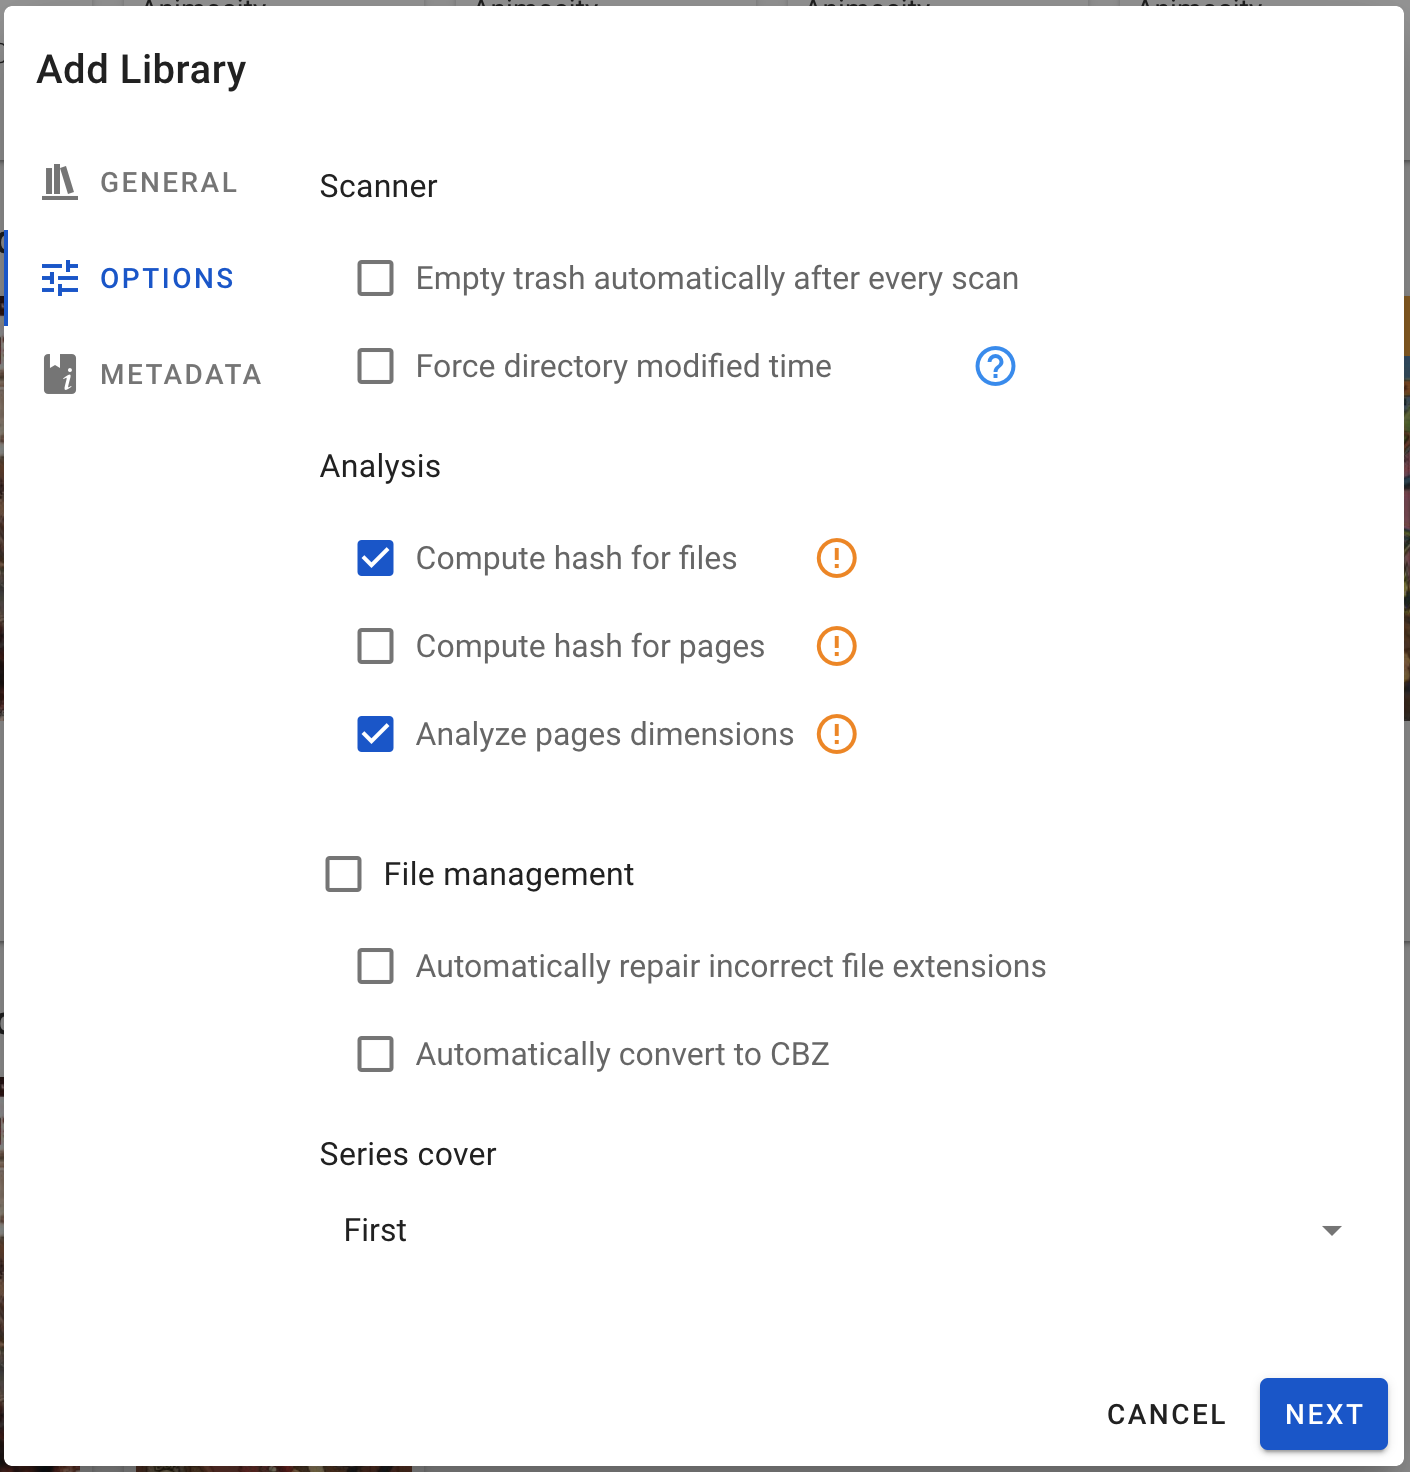
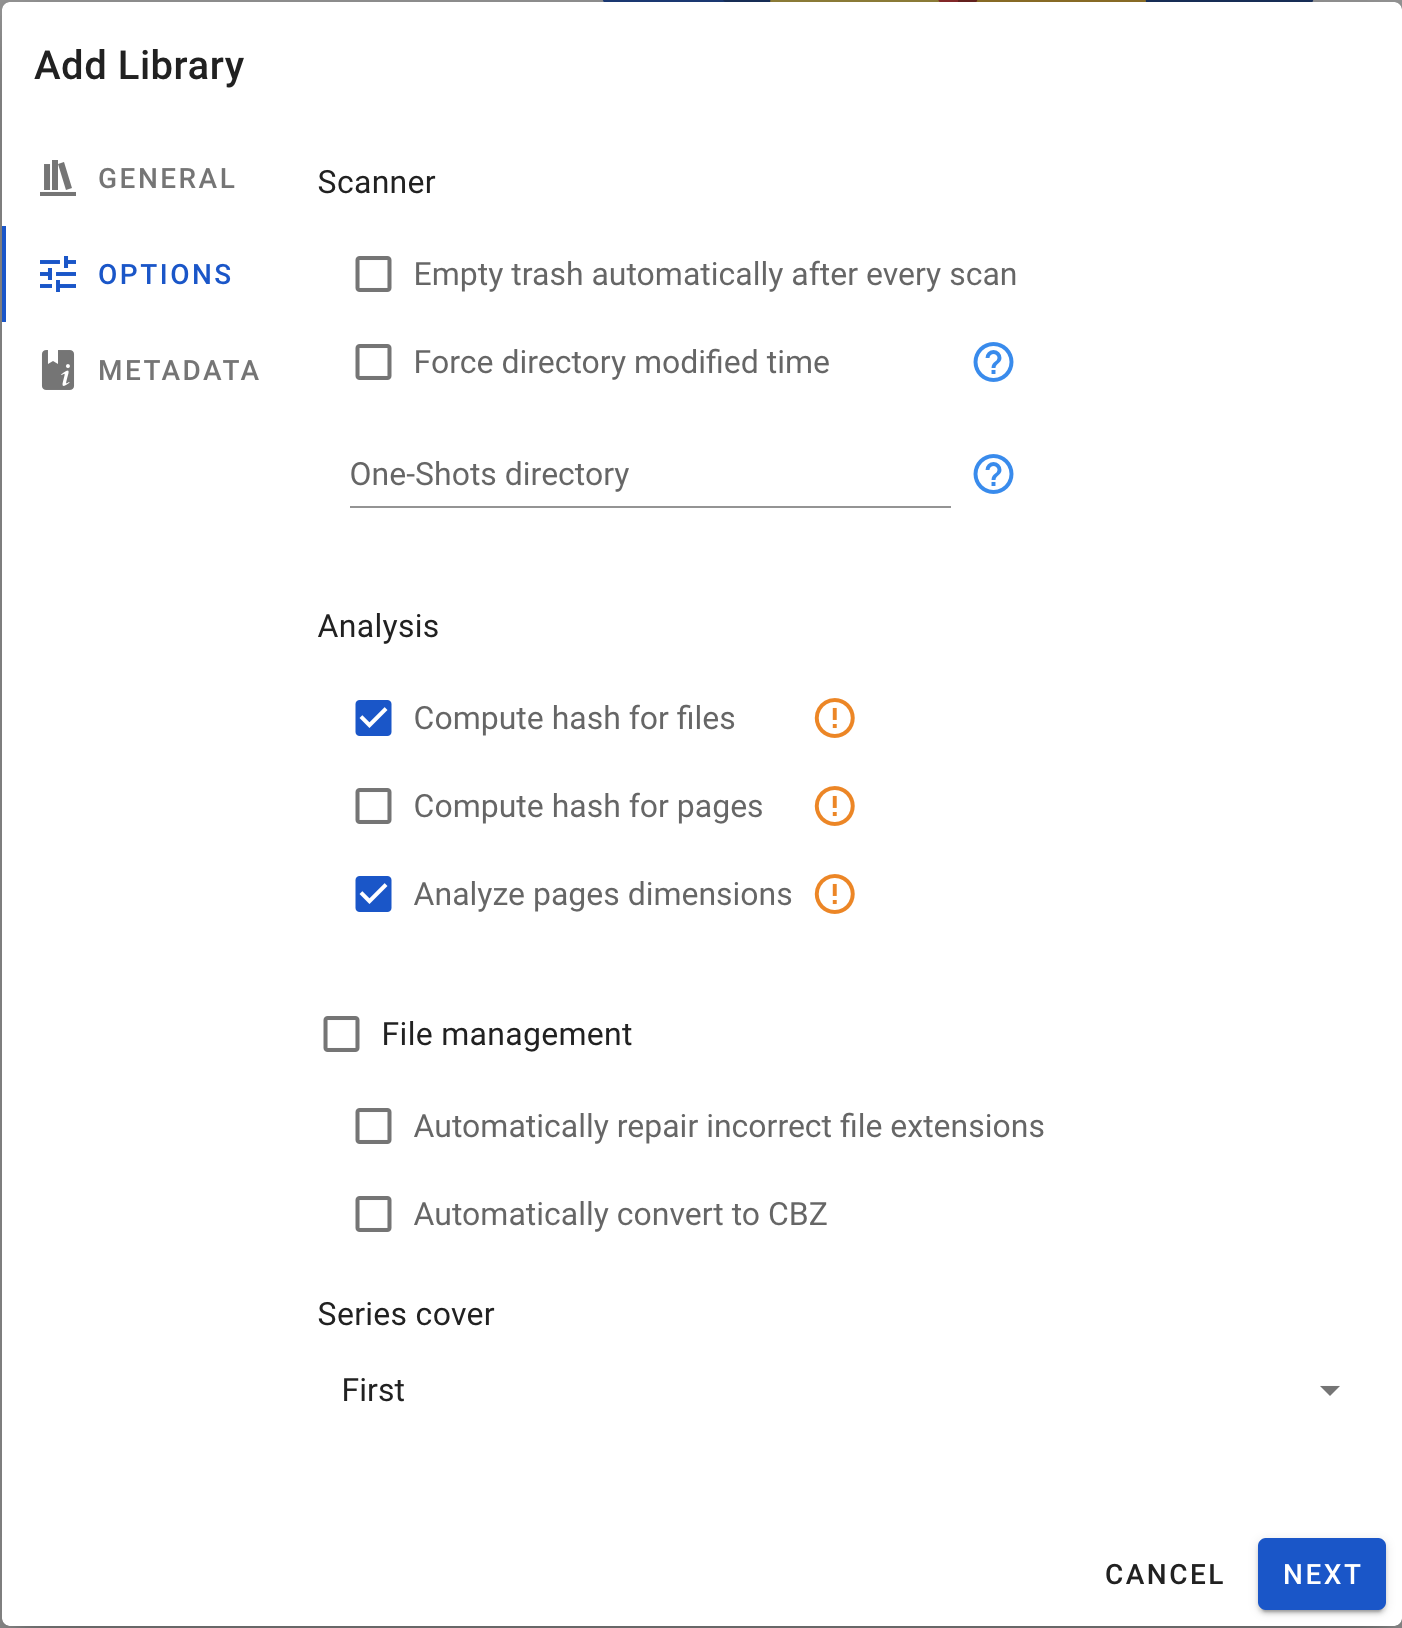
docs: oneshots documentation

diff --git a/sidebars.js b/sidebars.js
@@ -63,6 +63,7 @@ const sidebars = {
                 'guides/libraries',
                 'guides/trash',
                 'guides/scan-analysis-refresh',
+                'guides/oneshots',
                 'guides/edit-metadata',
                 'guides/local-artwork-assets',
                 'guides/user-accounts',

diff --git a/docs/guides/oneshots.md b/docs/guides/oneshots.md
@@ -1,0 +1,98 @@
+# One-Shots
+
+## What are One-Shots?
+
+One-Shots are series containing a single book. 
+
+However not all series containing a single book are One-Shots. Here are some example of single book series that are not One-Shots:
+- a series that has multiple books published, but only a single book is collected in Komga
+- a series that currently has only 1 book published, but will have more in the future
+
+Historically Komga required each series to be in its own directory on disk. This was cumbersome for One-Shots, as each book needed to be placed in a dedicated directory.
+
+With One-Shots handling, this is not necessary anymore.
+
+One-Shots are still composed of a series with a single book, but are handled slightly differently.
+
+## One-Shots handling
+
+### Configuration
+
+You can enable One-Shots handling through [Library options](/guides/libraries.md#one-shots-directory).
+
+### Processing
+
+One-Shots are detected during the scan. Any directory for which the full path contains the configured _One-Shots directory_ will generate One-Shot series instead of standard Series.
+
+Given the following directory structure, with _One-Shots directory_ configured to `_oneshots`:
+
+```
+/data/books/Comics
+├── Space Adventures
+│   ├── Space_Adventures_001.cbz
+│   ├── Space_Adventures_002.cbz
+│   ├── Space_Adventures_003.cbz
+│   └── _oneshots
+│       └── Pluto Adventures.cbz
+├── Super Duck
+│   ├── Super_Duck_001.cbz
+│   ├── Super_Duck_002.cbz
+│   └── Super_Duck_003.cbz
+└── _oneshots
+    ├── A oneshot.cbz
+    ├── Another oneshot.cbz
+    └── Yet another oneshot.cbz
+```
+
+This will result in:
+- 2 regular series:
+  - _Space Adventures_
+  - _Super Duck_
+- 4 One-Shots:
+  - _Pluto Adventures_
+  - _A oneshot_
+  - _Another oneshot_
+  - _Yet another oneshot_
+
+_One-Shots directory_ is checked against **any part of the directory path**:
+- `_oneshots` will match on:
+  - `/data/books/Comics/_oneshots`
+  - `/data/books/Comics/My weirdly named _oneshots`
+
+:::tip
+To match only directories starting with the provided string, prefix _One-Shots directory_ with `/`, like `/_oneshots` 
+:::
+
+### Metadata
+
+While the book metadata will be processed as usual, the series metadata for One-Shots will be handled slightly differently:
+- the Mylar `series.json` is ignored
+- the local artwork is ignored. The one for the book is still processed as usual.
+- in addition, some metadata is set:
+  - the series title and summary are set from the one of the book
+  - the series status is set to _Ended_
+  - the series total book count is set to 1
+
+### Dashboard
+
+The Dashboard has specific handling for One-Shots:
+- One-Shots are displayed in a new view that shows both series and book metadata fields
+- when editing One-Shots metadata, a new dialog will allow to edit both book and series level metadata fields.
+  - If you edit multiple items and all are One-Shots, this dialog is also used.
+  - If there is a mix of One-Shots and normal items (series or books), the regular dialog will be used instead.s
+- One-Shots can be added to both collections and readlists
+- One-Shots will not show in the _Recently Added Series_ or _Recently Updated Series_ sections, but they will show in _Recently Added Books_.
+- Item card in Series views (when browsing libraries or collections):
+  - will show an unread indicator in the top-right corner, instead of the number of unread books
+  - will display _One-shot_ at the bottom of the card instead of the number of books
+- Item card in Book views (when browsing readlists or recommended) will not display the Series name nor the book number
+- the Series filter panel has a _One-shot_ filter
+- One-Shots will not show in the Series picker dialog when importing books
+
+### Search
+
+One-Shots do not appear as series in the [full text search](./search.md) results. Instead, additional series fields are made available at the book level (see [here](./search#book-additional-fields) for details).
+
+### REST API
+
+One-Shots are still composed of a Series with a single Book, however both have a new `boolean` attribute `oneshot` which can be used in client applications to handle One-Shots differently.

diff --git a/docs/guides/libraries.md b/docs/guides/libraries.md
@@ -19,19 +19,20 @@ From the web interface:
 You can also specify extra options.
 
 <img src="/assets/media/guides/libraries/library-add-options.png" style={{maxHeight: '600px'}} alt="Add Library Dialog Options"/>
-<br/>
-<br/>
-<img src="/assets/media/guides/libraries/library-add-metadata.png" style={{maxHeight: '600px'}} alt="Add Library Dialog Metadata"/>
 
 ### Scanner options
 
 #### Empty trash automatically after every scan
 
-See [Emptying library trash](/guides/trash.md#automatically-empty-trash)
+See [Emptying library trash](/guides/trash.md#automatically-empty-trash).
 
 #### Force directory modified time
 
 This will force the last modified time of a directory as the maximum from its own last modified time and the last modified time from all the books inside the directory. This should be used only if your filesystem does not update the last modified time of a directory when files inside it are modified (Google Drive for instance).
+
+#### One-Shots directory
+
+See [One-Shots](/guides/oneshots.md).
 
 ### Analysis
 
@@ -70,6 +71,8 @@ Books in `rar`/`cbr` format (RAR4 only) will be converted to `cbz` automatically
 Choose which book cover is used for the series.
 
 ### Metadata options
+
+<img src="/assets/media/guides/libraries/library-add-metadata.png" style={{maxHeight: '600px'}} alt="Add Library Dialog Metadata"/>
 
 Check the [Refresh Metadata](/guides/scan-analysis-refresh.md#refresh-metadata) section to know more about what they do.
 

diff --git a/docs/guides/search.md b/docs/guides/search.md
@@ -51,3 +51,14 @@ Some extra fields are available for search using the `field:search` syntax, see 
   - Possible values: `ready`, `unknown`, `error`, `unsupported`, `outdated`
   - Example: `status:(error OR unsupported)`
 - `deleted` will search soft-deleted books. Example: `deleted:true` or `deleted:false`
+- `oneshot` will search for One-Shots only. Example: `oneshot:true` or `oneshot:false`
+
+Some additional Series fields will be available if the book is a One-Shot:
+- `publisher`
+- `status`, which should always be `ended`
+- `reading_direction`
+- `age_rating`
+- `language`
+- `genre`
+- `sharing_label`
+- `complete`, which will always be `true`
